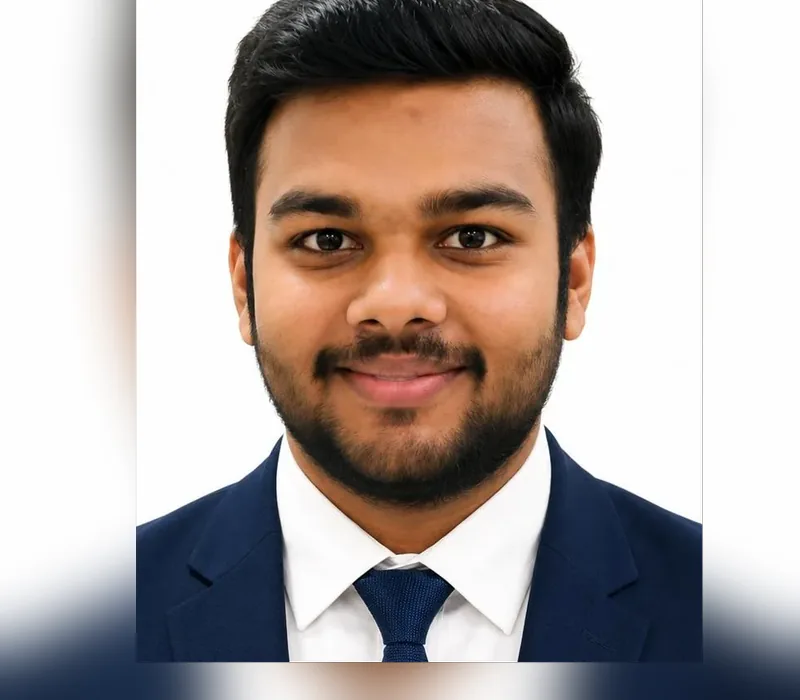
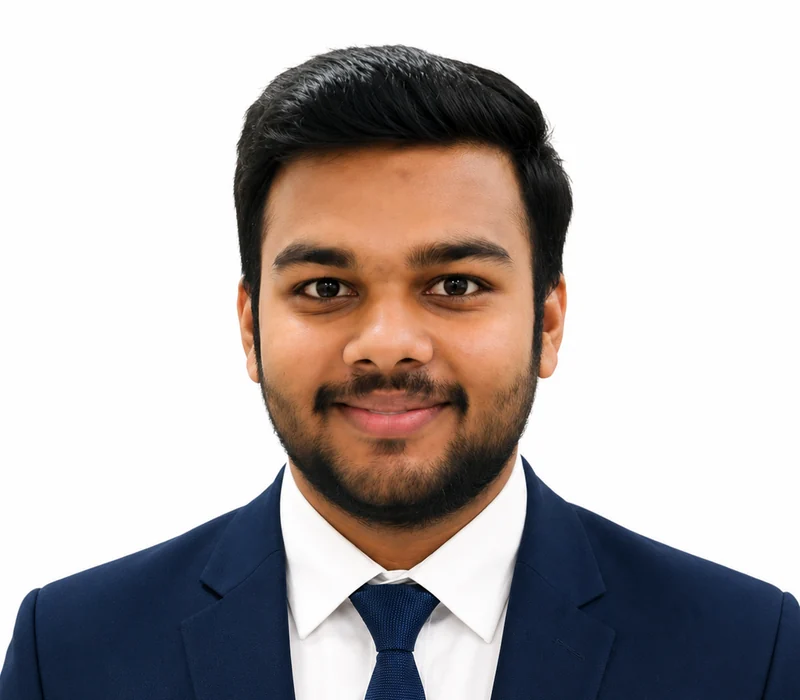
Team photos And Card

diff --git a/src/pages/TeamPage.tsx b/src/pages/TeamPage.tsx
@@ -163,6 +163,7 @@ const TEAM_DEPARTMENTS: TeamDepartment[] = [
         branch: 'Department Of Chemical Engineering · B.Tech, Final Year',
         description:
           'A final-year Chemical Engineering student at IIT (ISM) Dhanbad with an interest in creative writing, communication, and storytelling. As a member of the CSR Conclave Content Team, she believes in the power of collaboration and thoughtful communication to bring diverse perspectives together and create meaningful social impact.',
+          photo: '/team/anchal.webp',
         },
     ],
   },
@@ -234,7 +235,7 @@ function OfficialCard({ member }: { member: OfficialMember }) {
   return (
     <article className="group overflow-hidden rounded-2xl border border-sand-300/80 bg-white shadow-sm transition-all duration-300 hover:-translate-y-1 hover:border-maroon-300 hover:shadow-lift">
       {/* MOBILE CARD — matches regular team member cards */}
-      <div className="flex items-center gap-4 p-3 sm:hidden">
+      <div className="hidden">
         <div className="relative h-24 w-24 shrink-0 overflow-hidden rounded-xl bg-gradient-to-br from-sand-100 via-sand-200 to-sand-300">
           {member.photo ? (
             <img
@@ -268,7 +269,7 @@ function OfficialCard({ member }: { member: OfficialMember }) {
       </div>
 
       {/* DESKTOP CARD — same dimensions and spacing as MemberCard */}
-      <div className="hidden sm:block">
+      <div className="block">
         <div className="relative aspect-[4/3.5] overflow-hidden bg-gradient-to-br from-sand-100 via-sand-200 to-sand-300">
           {member.photo ? (
             <img
@@ -324,7 +325,7 @@ function MemberCard({
   return (
     <article className="group overflow-hidden rounded-2xl border border-sand-300/80 bg-white shadow-sm transition-all duration-300 hover:-translate-y-1 hover:border-maroon-300 hover:shadow-lift">
       {/* MOBILE CARD */}
-      <div className="flex items-center gap-4 p-3 sm:hidden">
+      <div className="hidden">
         <div className="relative h-24 w-24 shrink-0 overflow-hidden rounded-xl bg-gradient-to-br from-sand-100 via-sand-200 to-sand-300">
           {member.photo ? (
             <img
@@ -365,7 +366,7 @@ function MemberCard({
       </div>
 
       {/* DESKTOP CARD */}
-      <div className="hidden sm:block">
+      <div className="block">
         <div className="relative aspect-[4/3.5] overflow-hidden bg-gradient-to-br from-sand-100 via-sand-200 to-sand-300">
           {member.photo ? (
             <img
@@ -563,8 +564,8 @@ export default function TeamPage() {
               </div>
               <div className="mx-auto grid max-w-[900px] grid-cols-1 gap-4 sm:grid-cols-3 xl:gap-5">
                 <OfficialCard member={{ name: 'Prof. Sukumar Mishra', role: 'Chief Patron', photo: '/speakers/sukumar-mishra.png', description: 'Institutional leadership and guidance.' }} />
-                <OfficialCard member={{ name: 'Prof. Sarat Kumar Das', role: 'Patron',  description: 'Guidance and support for the Conclave.' }} />
-                <OfficialCard member={{ name: 'Shri Prabodh Pandey', role: 'Advisor', description: 'Strategic direction and mentorship.' }} />
+                <OfficialCard member={{ name: 'Prof. Sarat Kumar Das', role: 'Patron',photo: '/team/sarat-kumar-das.webp',  description: 'Guidance and support for the Conclave.' }} />
+                <OfficialCard member={{ name: 'Shri Prabodh Pandey', role: 'Advisor',photo: '/team/prabodh-pandey.webp', description: 'Strategic direction and mentorship.' }} />
               </div>
             </div>
 
@@ -584,10 +585,10 @@ export default function TeamPage() {
                 </div>
               </div>
               <div className="grid grid-cols-2 gap-3 sm:grid-cols-3 lg:grid-cols-4 xl:grid-cols-4 xl:gap-4">
-                <OfficialCard member={{ name: 'Prof. Alok Kumar Das', role: 'Convener' }} />
+                <OfficialCard member={{ name: 'Prof. Alok Kumar Das',photo: '/speakers/alok-kumar-das.jpeg', role: 'Convener' }} />
                 <OfficialCard member={{ name: 'Prof. Rajeev Upadhyay',photo: '/team/Rajeev.webp', role: 'Co-Convener' }} />
-                <OfficialCard member={{ name: 'Mr. Mrityunjay Sharma', role: 'Organisation Secretary' }} />
-                <OfficialCard member={{ name: 'Ms. Shrishti Shankar', role: 'Joint Organising Secretary' }} />
+                <OfficialCard member={{ name: 'Mr. Mrityunjay Sharma', role: 'Organisation Secretary',photo: '/team/mrityunjay-sharma.webp' }} />
+                <OfficialCard member={{ name: 'Ms. Shrishti Shankar',photo: '/team/shrishti-shankar.webp', role: 'Joint Organising Secretary' }} />
                 <OfficialCard member={{ name: 'Mr. Ashish Kumar', role: 'Treasurer' }} />
                 <OfficialCard member={{ name: 'Mr. Mukul Kumar Keshari', role: 'Assistant Treasurer' }} />
                 <OfficialCard member={{ name: 'Mr. Ajit Jha', role: 'Executive Member' }} />
@@ -625,12 +626,12 @@ export default function TeamPage() {
               >
                 <div className="mb-5 flex flex-col gap-3 border-b border-sand-300 pb-4 sm:flex-row sm:items-end sm:justify-between">
                   <div>
-                    <p className="text-[10px] font-bold uppercase tracking-[0.22em] text-maroon-500">
+                    {/* <p className="text-[10px] font-bold uppercase tracking-[0.22em] text-maroon-500">
                       Department {department.number}
-                    </p>
+                    </p> */}
 
                     <h3 className="mt-1 font-display text-2xl font-semibold text-maroon-950 sm:text-3xl">
-                      {department.name}
+                      {department.name} Team
                     </h3>
 
                     <p className="mt-1 max-w-xl text-xs leading-6 text-ink-soft sm:text-sm">
